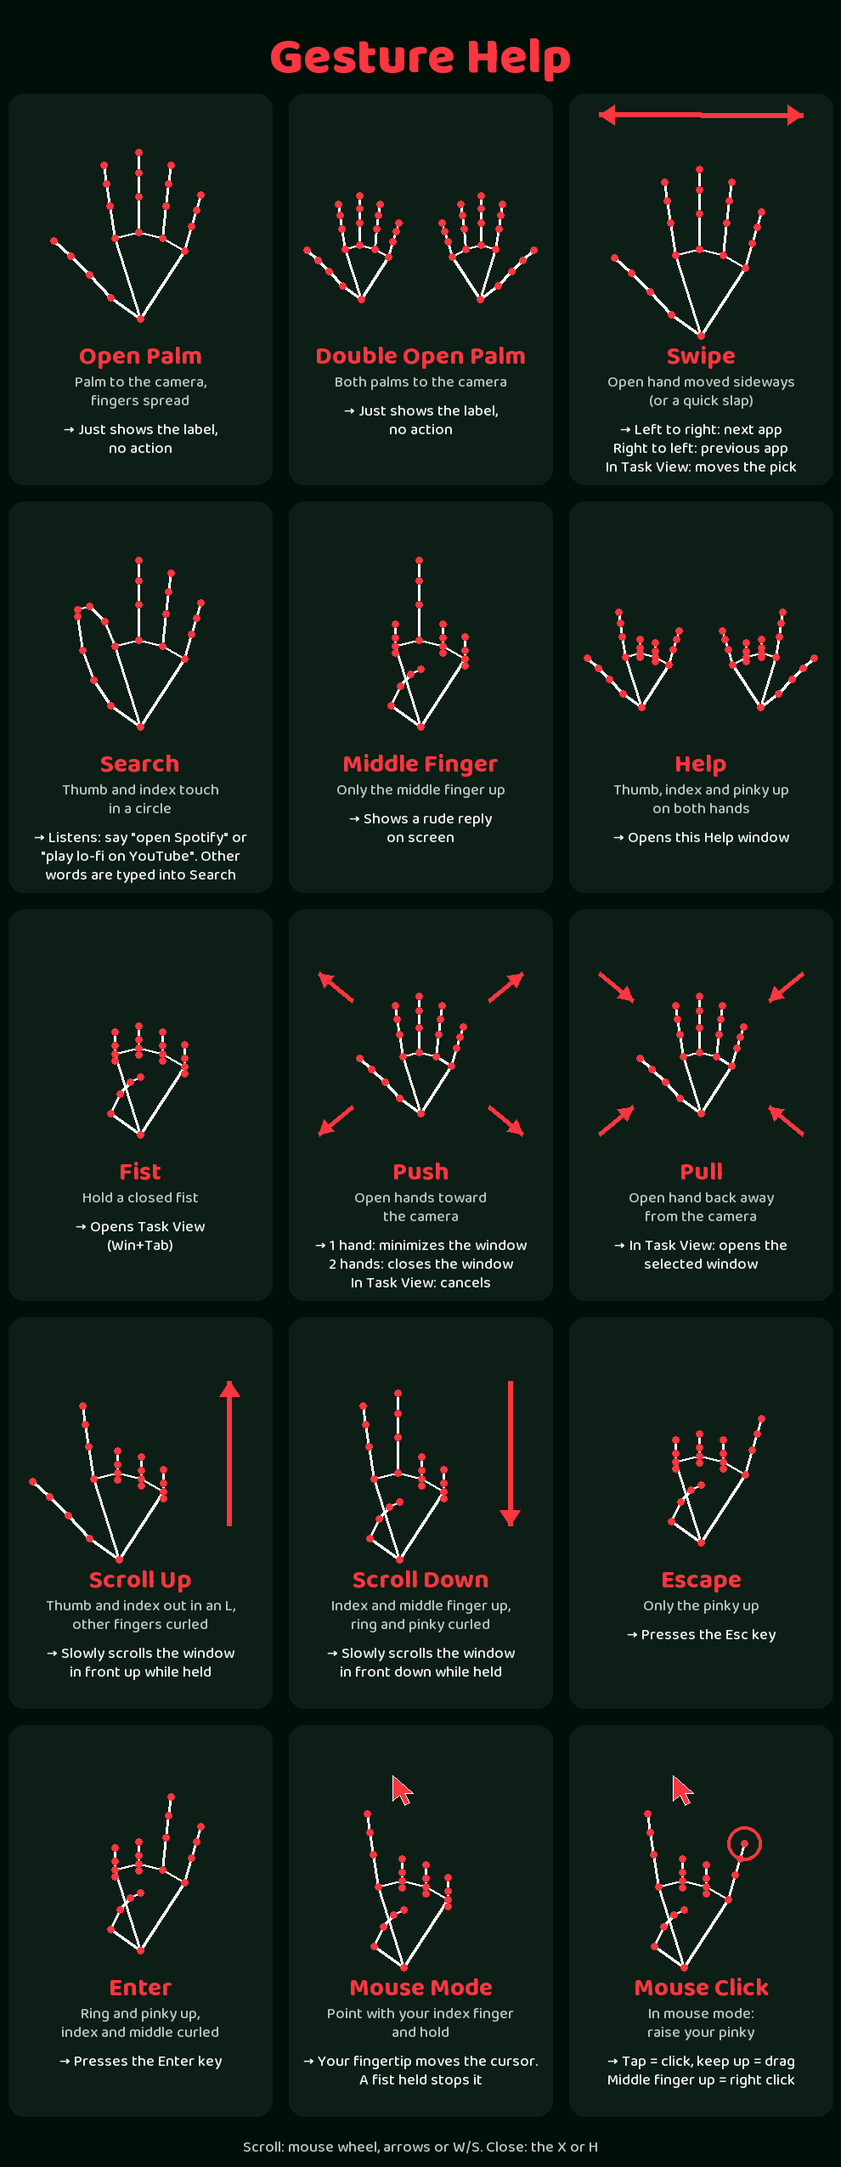
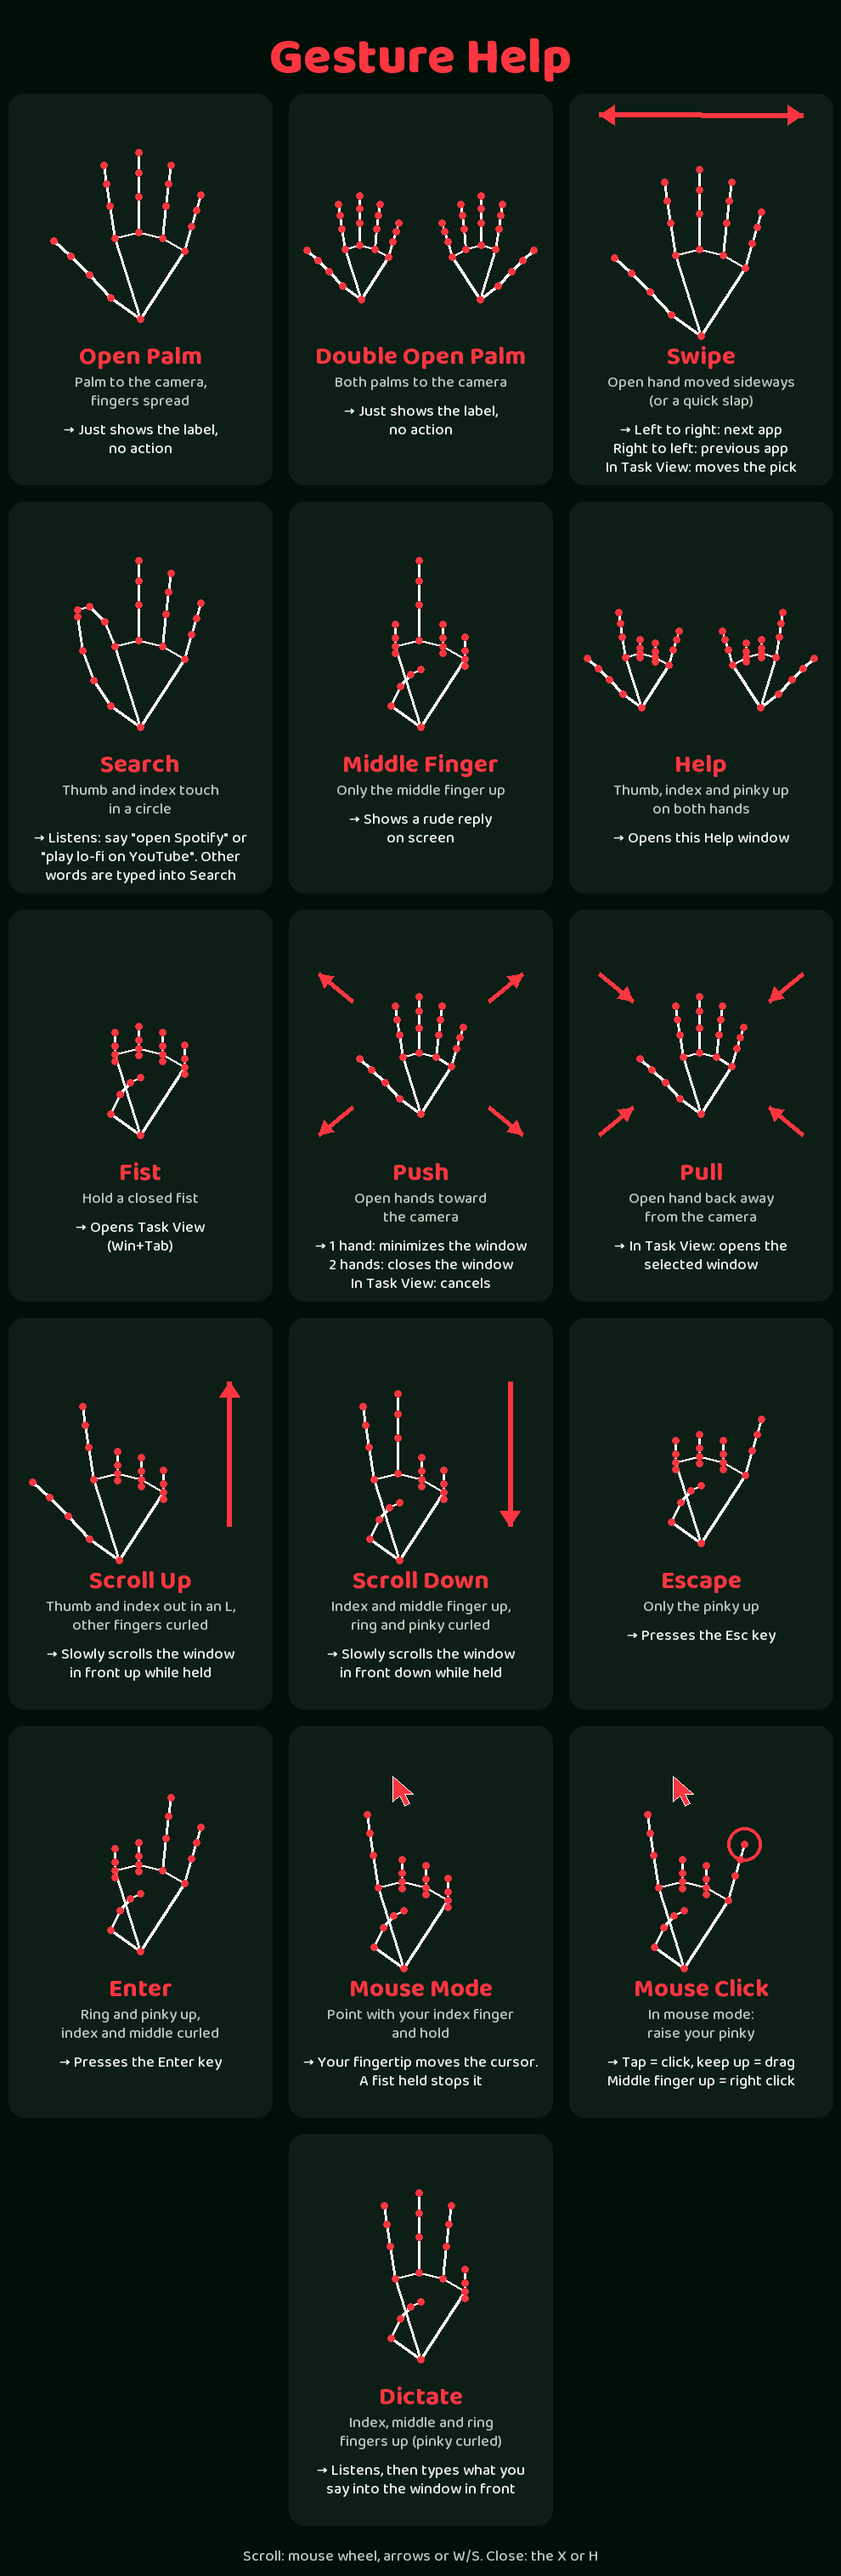
Add dictation: three-finger sign listens and types into the focused window

diff --git a/src/voice.py b/src/voice.py
@@ -30,6 +30,8 @@ MIN_THRESHOLD = 0.012  # minimum RMS that counts as speech
 NO_SPEECH_TIMEOUT_S = 8.0  # give up if nothing is said
 END_SILENCE_S = 1.0  # stop after this much silence once you have spoken
 MAX_RECORD_S = 20.0
+DICTATION_END_SILENCE_S = 1.5  # dictation waits a little longer, so a pause does not cut you off
+DICTATION_MAX_RECORD_S = 40.0
 PRE_ROLL_S = 0.3
 
 # Whisper sometimes "hears" these in silence.
@@ -150,22 +152,26 @@ class VoiceTyper:
             return self._result
         return ""
 
-    def listen_and_type(self):
-        """Record one phrase, transcribe it and type it. Runs in the background."""
+    def listen_and_type(self, handler=None, dictation=False):
+        """Record one phrase, transcribe it and hand it to the handler. Runs in the background.
+
+        dictation=True keeps the punctuation, waits longer for pauses, and allows a longer phrase."""
         if not self._busy.acquire(blocking=False):
             return  # already listening
-        threading.Thread(target=self._run, daemon=True).start()
+        threading.Thread(target=self._run, args=(handler or self._handler, dictation),
+                         daemon=True).start()
 
-    def _run(self):
+    def _run(self, handler, dictation):
         try:
             self._state = "listening"
-            audio = self.record()
+            audio = self.record(DICTATION_END_SILENCE_S if dictation else END_SILENCE_S,
+                                DICTATION_MAX_RECORD_S if dictation else MAX_RECORD_S)
             if audio is None:
                 return
             self._state = "thinking"
-            text = self.transcribe(audio)
+            text = self.transcribe(audio, keep_punctuation=dictation)
             if text:
-                self._result = self._handler(text) or "Done"
+                self._result = handler(text) or "Done"
                 self._typed_until = time.time() + 1.5
         except Exception as error:
             print(f"Voice typing failed: {error}")
@@ -173,7 +179,7 @@ class VoiceTyper:
             self._state = "idle"
             self._busy.release()
 
-    def record(self):
+    def record(self, end_silence=END_SILENCE_S, max_record=MAX_RECORD_S):
         """Record from the default microphone until you stop talking. None if silent."""
         blocks = queue.Queue()
 
@@ -213,11 +219,11 @@ class VoiceTyper:
                 else:
                     speech.append(block)
                     silence = 0.0 if rms > threshold else silence + CHUNK / SAMPLE_RATE
-                    if silence >= END_SILENCE_S or elapsed > MAX_RECORD_S:
+                    if silence >= end_silence or elapsed > max_record:
                         break
         return np.concatenate(speech)
 
-    def transcribe(self, audio):
+    def transcribe(self, audio, keep_punctuation=False):
         """Turn a 16 kHz mono float32 array into text ("" if nothing was said)."""
         self._model_ready.wait()
         if self._model is None:
@@ -227,5 +233,6 @@ class VoiceTyper:
             audio, language=LANGUAGE, beam_size=5, vad_filter=True,
             condition_on_previous_text=False, temperature=0.0, hotwords=hotwords or None)
         text = " ".join(s.text.strip() for s in segments).strip()
-        text = text.rstrip(".!?,;: ")  # a search box does not need the full stop
-        return "" if text.lower() in HALLUCINATIONS else text
+        if not keep_punctuation:
+            text = text.rstrip(".!?,;: ")  # a search box does not need the full stop
+        return "" if text.lower().strip(".!?,;: ") in HALLUCINATIONS else text

diff --git a/src/camera.py b/src/camera.py
@@ -50,6 +50,7 @@ SCROLL_RATE = 240  # wheel units per second while a scroll sign is held (120 = o
 SCROLL_HOLD_S = 0.3  # the sign must be held this long before it starts scrolling
 SCROLL_SHOW_S = 0.3
 ESCAPE_HOLD_S = 0.3  # how long the pinky sign must be held to press Esc
+DICTATE_HOLD_S = 0.5  # how long the three-finger sign must be held to start dictating
 ENTER_HOLD_S = 0.3  # how long the ring + pinky sign must be held to press Enter
 PUSH_SHOW_S = 1.0
 FIST_HOLD_S = 0.5  # how long the fist must be held to trigger
@@ -211,6 +212,16 @@ def is_ring_pinky(lm):
         and dist(lm[20], lm[WRIST]) > dist(lm[18], lm[WRIST])
         and dist(lm[8], lm[WRIST]) < dist(lm[5], lm[WRIST])
         and dist(lm[12], lm[WRIST]) < dist(lm[9], lm[WRIST])
+    )
+
+
+def is_three_fingers(lm):
+    # Index, middle and ring fingers up, pinky curled; the thumb is ignored.
+    return (
+        dist(lm[8], lm[WRIST]) > dist(lm[6], lm[WRIST])
+        and dist(lm[12], lm[WRIST]) > dist(lm[10], lm[WRIST])
+        and dist(lm[16], lm[WRIST]) > dist(lm[14], lm[WRIST])
+        and dist(lm[20], lm[WRIST]) < dist(lm[17], lm[WRIST])
     )
 
 
@@ -457,6 +468,15 @@ def main():
         return commands.route(text, type_into_search)
 
     commands.preload_apps()  # lists installed apps in the background
+    def dictate(text):
+        # Type what you said into whichever window has the keyboard focus.
+        if camera_window_in_front():
+            return "Click a text box first"
+        type_text(text + " ")
+        return "Typed"
+
+    dictate_armed = True
+    dictate_since = None
     air = mouse.AirMouse()
     point_since = None
     voice = VoiceTyper(handler=handle_voice, vocabulary=commands.vocabulary)
@@ -559,6 +579,17 @@ def main():
         else:
             escape_since = None
             escape_armed = True
+
+        # Three fingers up (held briefly): listen, then type what you say into the window
+        # that has the keyboard focus. Once per sign.
+        if n_hands == 1 and stable and is_three_fingers(result.hand_landmarks[0]):
+            dictate_since = dictate_since or now
+            if dictate_armed and now - dictate_since >= DICTATE_HOLD_S:
+                voice.listen_and_type(handler=dictate, dictation=True)
+                dictate_armed = False
+        else:
+            dictate_since = None
+            dictate_armed = True
 
         # Ring and pinky up (held briefly) presses Enter, once per sign.
         if n_hands == 1 and stable and is_ring_pinky(result.hand_landmarks[0]):

diff --git a/src/help_screen.py b/src/help_screen.py
@@ -79,6 +79,7 @@ L_HAND = hand("out", "up", "curl", "curl", "curl")
 PINKY_HAND = hand("in", "curl", "curl", "curl", "up")
 RING_HAND = hand("in", "curl", "curl", "up", "up")
 POINT_HAND = hand("in", "up", "curl", "curl", "curl")
+THREE_HAND = hand("in", "up", "up", "up", "curl")
 CLICK_HAND = hand("in", "up", "curl", "curl", "up")  # pointing, with the pinky raised
 
 
@@ -164,7 +165,7 @@ def tile(draw, col, row, title, how, does, art, fonts):
 def build_help_image():
     fonts = {"title": load(TITLE_FONT, 60, 800), "name": load(TITLE_FONT, 30, 700),
              "sub": load(TEXT_FONT, 18, 500)}
-    rows = 5
+    rows = 6
     img = Image.new("RGB", (TILE_W * COLS, TITLE_H + TILE_H * rows + FOOTER_H), BG)
     draw = ImageDraw.Draw(img)
     centered(draw, "Gesture Help", fonts["title"], img.width / 2, 20, ACCENT)
@@ -240,6 +241,8 @@ def build_help_image():
          "Presses the Enter key", single(RING_HAND), fonts)
     tile(draw, 1, 4, "Mouse Mode", "Point with your index finger\nand hold",
          "Your fingertip moves the cursor.\nA fist held stops it", mouse(POINT_HAND), fonts)
+    tile(draw, 1, 5, "Dictate", "Index, middle and ring\nfingers up (pinky curled)",
+         "Listens, then types what you\nsay into the window in front", single(THREE_HAND), fonts)
     tile(draw, 2, 4, "Mouse Click", "In mouse mode:\nraise your pinky",
          "Tap = click, keep up = drag\nMiddle finger up = right click", mouse(CLICK_HAND, 20), fonts)
 

diff --git a/tools/make_readme_images.py b/tools/make_readme_images.py
@@ -21,7 +21,7 @@ TILES = [  # (col, row, file name) in the order build_help_image lays them out
     (0, 0, "open-palm"), (1, 0, "double-open-palm"), (2, 0, "swipe"),
     (0, 1, "search"), (1, 1, "middle-finger"), (2, 1, "help"),
     (0, 2, "fist"), (1, 2, "push"), (2, 2, "pull"),
-    (0, 3, "scroll-up"), (1, 3, "scroll-down"), (2, 3, "escape"), (0, 4, "enter"), (1, 4, "mouse-mode"), (2, 4, "mouse-click"),
+    (0, 3, "scroll-up"), (1, 3, "scroll-down"), (2, 3, "escape"), (0, 4, "enter"), (1, 4, "mouse-mode"), (2, 4, "mouse-click"), (1, 5, "dictate"),
 ]
 
 

diff --git a/README.md b/README.md
@@ -11,7 +11,7 @@
 
 ## <a name="what-it-does"></a><img src="docs/headings/what-it-does.png" alt="What it does" height="38">
 
-- **Tracks your hands** with your webcam and recognizes 15 gestures, from swipes and pushes to single-finger signs.
+- **Tracks your hands** with your webcam and recognizes 16 gestures, from swipes and pushes to single-finger signs.
 - **Controls Windows**: switch apps, open Task View, minimize or close the window in front, scroll, press Esc or Enter.
 - **Understands your voice**: make the Search sign and say *"open Spotify"*, *"play lo-fi music on YouTube"* or *"google weather in London"*.
 - **Runs offline**: hand tracking and speech recognition both run on your PC. Nothing you say or show is uploaded.
@@ -69,6 +69,11 @@ Hold the sign steady for a moment. The app waits about a third of a second after
     <td align="center"><img src="docs/gestures/mouse-mode.png" width="220"></td>
     <td align="center"><img src="docs/gestures/mouse-click.png" width="220"></td>
   </tr>
+  <tr>
+    <td></td>
+    <td align="center"><img src="docs/gestures/dictate.png" width="220"></td>
+    <td></td>
+  </tr>
 </table>
 
 | Gesture | How to make it | What it does |
@@ -86,6 +91,7 @@ Hold the sign steady for a moment. The app waits about a third of a second after
 | **Scroll Down** | Index and middle finger up, ring and pinky curled | Slowly scrolls the window in front down while you hold it |
 | **Escape** | Only the pinky up, other fingers curled | Presses the Esc key (skipped while the Camera window is in front, since Esc would quit the app) |
 | **Enter** | Ring and pinky up, index and middle curled | Presses the Enter key |
+| **Dictate** | Index, middle and ring fingers up, pinky curled | Listens, then types what you say into the window in front (see [Voice commands](#voice-commands)) |
 | **Mouse Mode** | Point with your index finger only (thumb tucked in) and hold | Starts the [air mouse](#air-mouse): your fingertip moves the cursor. A held fist stops it |
 | **Mouse Click** | In mouse mode: raise your pinky | Tap = click, keep it up = drag. Middle finger up = right click |
 
@@ -117,6 +123,8 @@ Make the **Search** sign, say something, then pause. The camera window shows "Li
 - **Speech recognition** is [Whisper](https://github.com/SYSTRAN/faster-whisper) `large-v3`, English only, running **on your PC**. On an NVIDIA GPU with about 4 GB of free memory a phrase takes about a second. Without a GPU it falls back to the CPU, which works but is much slower.
 - **Privacy:** your voice never leaves your PC. The one online request is finding the top video for "play ... on YouTube", and it only sends the search words.
 - **Bare "play" or "watch"** is treated as a YouTube video.
+
+**Dictation:** make the **Dictate** sign (index, middle and ring fingers up, pinky curled) and talk. The app listens, waits for a longer pause than for commands (about 1.5 seconds), and types what you said, with punctuation, into whichever window has the keyboard focus: a document, a chat box, a browser field. Click into the text box first. If the camera window itself is in front, it asks you to click a text box, because typing there would go nowhere.
 
 ## <a name="air-mouse"></a><img src="docs/headings/air-mouse.png" alt="Air mouse" height="38">
 
